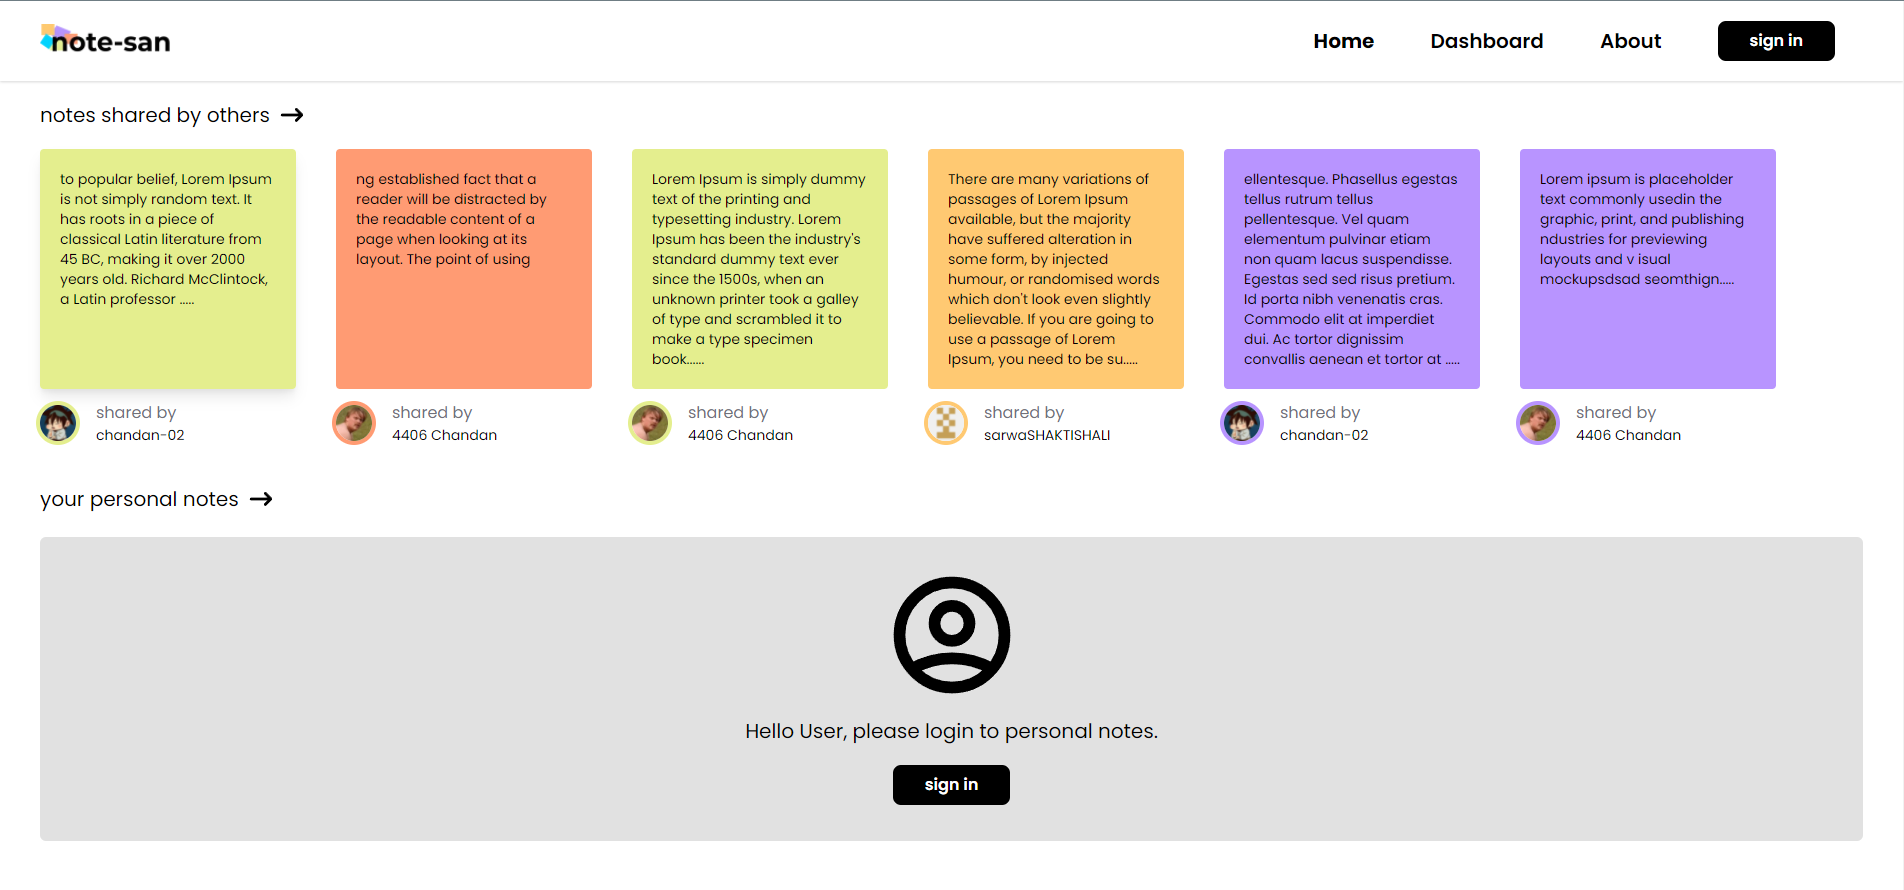
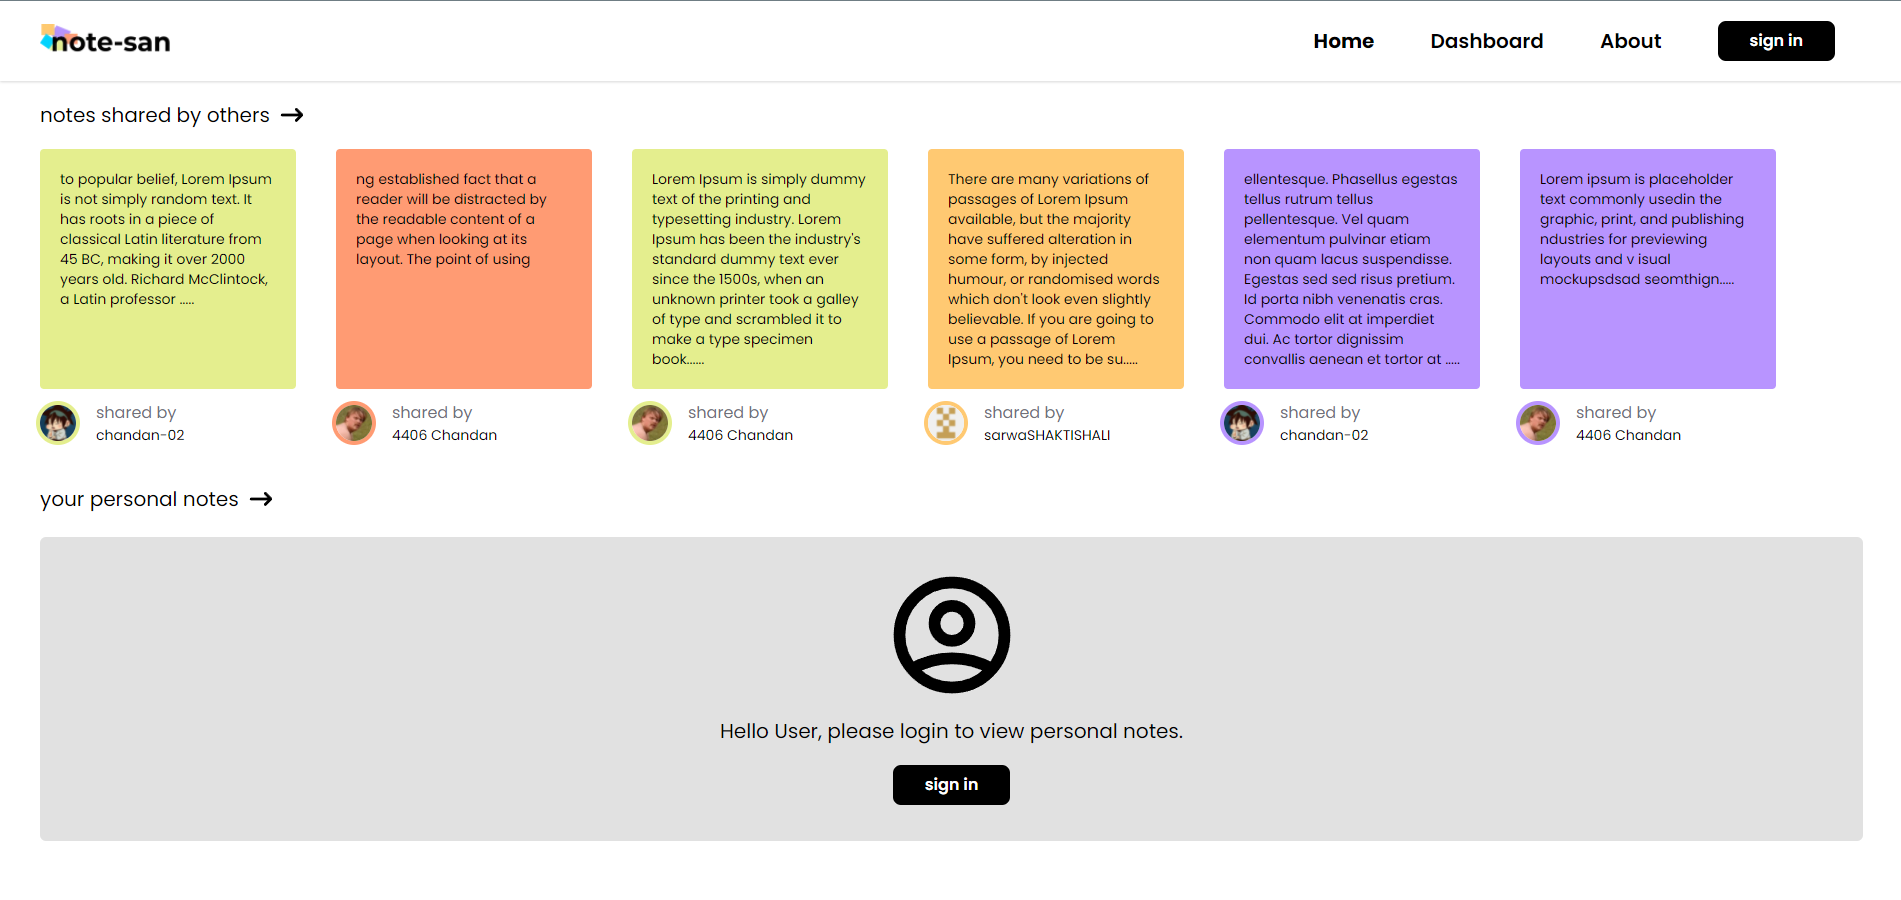
purgecss classnames fix

diff --git a/components/publicNotes.tsx b/components/publicNotes.tsx
@@ -1,11 +1,19 @@
 import { useRouter } from 'next/router';
-import { FC, useEffect, useState } from 'react';
+import { FC } from 'react';
 // import { UserCircleIcon } from '@heroicons/react/solid';
 import { IPublicNotes } from '../interface/notes';
 
+/**
+   * PurgeCSS:
+   * bg-m_purple
+   * bg-m_light_orange
+   * bg-m_dark_orange
+   * bg-m_lime
+   * bg-m_blue
+**/
 const PublicNotes: FC<IPublicNotes> = ({ note }) => {
     const router = useRouter();
-    const [color,setColor] = useState<string>('');
+
     const handleView = () => {
         if (note.id && note.shared_by) {
             router.push({
@@ -17,24 +25,22 @@ const PublicNotes: FC<IPublicNotes> = ({ note }) => {
             })
         }
     }
-    useEffect(() => {
-      setColor('bg-'+note.color);
-    },[])
+
     return (
-        <div className="my-4 md:m-5 w-full md:w-64 text-sm " onClick={()=>handleView()}>
-            <div className={`${color} p-5 rounded filter hover:shadow-lg h-60 transition-all cursor-pointer flex flex-col justify-between`}>
+        <div className="my-4 md:m-5 w-full md:w-64 text-sm " onClick={() => handleView()}>
+            <div className={`bg-${note.color} p-5 rounded filter hover:shadow-lg h-60 transition-all cursor-pointer flex flex-col justify-between`}>
                 <h1 className="font-poppins">{note.note.length > 140 ? note.note.substring(0, 270) + '.....' : note.note}</h1>
             </div>
             <div className="flex items-center mt-3 cursor-default">
-               <div>
-                   {/* eslint-disable-next-line @next/next/no-img-element */}
-                   <img src={note.user_img} className={`h-9 w-9 rounded-full ring-4 ring-${note.color}`} alt="user" />
-               </div>
+                <div>
+                    {/* eslint-disable-next-line @next/next/no-img-element */}
+                    <img src={note.user_img} className={`h-9 w-9 rounded-full ring-4 ring-${note.color}`} alt="user" />
+                </div>
 
-               <div className="ml-5">
-                   <h1 className="font-poppins text-gray-500 text-base">shared by</h1>
-                   <h1 className="font-poppins text-black text-sm">{note.shared_by}</h1>
-               </div>
+                <div className="ml-5">
+                    <h1 className="font-poppins text-gray-500 text-base">shared by</h1>
+                    <h1 className="font-poppins text-black text-sm">{note.shared_by}</h1>
+                </div>
             </div>
         </div>
     )

diff --git a/components/dashnotes.tsx b/components/dashnotes.tsx
@@ -1,4 +1,4 @@
-import { FC ,useState,useEffect} from 'react';
+import { FC ,useState} from 'react';
 import { IDashNotes } from '../interface/notes';
 import { PencilAltIcon, TrashIcon } from '@heroicons/react/solid';
 import { useRouter } from 'next/router';
@@ -8,16 +8,20 @@ const axios = require('axios').create({
     baseURL: process.env.API_BASE_URL
 })
 
+/**
+   * PurgeCSS:
+   * bg-m_purple
+   * bg-m_light_orange
+   * bg-m_dark_orange
+   * bg-m_lime
+   * bg-m_blue
+**/
+
 const DashNotes: FC<IDashNotes> = ({ note, db_user }) => {
     const { mutate } = useSWRConfig();
     const router = useRouter();
     const [load, setload] = useState<boolean>(false)
-    const [color,setColor] = useState<string>('');
-
-    useEffect(() => {
-        setColor('bg-'+note.color);
-      },[])
-
+    
     const handleEdit = () => {
         if (note.id && db_user != '' && db_user != 'no_username') {
             router.push({
@@ -52,9 +56,9 @@ const DashNotes: FC<IDashNotes> = ({ note, db_user }) => {
             }
         }
     }
-
+    const styleMain = `bg-${note.color} my-2 md:m-5 w-full md:w-64 p-5 text-sm rounded filter hover:shadow-lg h-60 transition-all cursor-pointer flex flex-col justify-between`
     return (
-        <div className={`${color} my-2 md:m-5 w-full md:w-64 p-5 text-sm rounded filter hover:shadow-lg h-60 transition-all cursor-pointer flex flex-col justify-between`}>
+        <div className={styleMain}>
             <h1 className="font-poppins">{note.note.length > 140 ? note.note.substring(0, 200) + '.....' : note.note}</h1>
             <div className="flex items-center ">
                 <PencilAltIcon onClick={() => handleEdit()} className="h-5 w-5 text-black mr-4 hover:text-blue-700" />

diff --git a/pages/public/[note].tsx b/pages/public/[note].tsx
@@ -8,12 +8,18 @@ import Image from 'next/image';
 const axios = require('axios').create({
     baseURL: process.env.API_BASE_URL
 })
-
+/**
+   * PurgeCSS:
+   * bg-m_purple
+   * bg-m_light_orange
+   * bg-m_dark_orange
+   * bg-m_lime
+   * bg-m_blue
+**/
 const Note: NextPage = () => {
 
     const router = useRouter();
     const [note, setNote] = useState({ note: null, color: null, user_img: '',shared_by: null });
-    const [color,setColor] = useState<string>('bg-'+note.color);
 
     useEffect(() => {
         const { user, note, id } = router.query;
@@ -27,7 +33,6 @@ const Note: NextPage = () => {
                     }
                 })
                 setNote(response.data.note);
-                setColor('bg-'+response.data.note.color)
             } catch (error) {
                 console.log(error)
             }
@@ -57,7 +62,7 @@ const Note: NextPage = () => {
                         </div>
                     </div>
 
-                    <div className={`mt-5 ${color} p-5 rounded-md cursor-default`}>
+                    <div className={`mt-5 bg-${note.color} p-5 rounded-md cursor-default`}>
                         {
                             note.note != null ?
                                 <div>

diff --git a/components/chooseNoteColor.tsx b/components/chooseNoteColor.tsx
@@ -1,16 +1,19 @@
 import { FC } from 'react';
 import {IChooseNoteColorProps } from '../interface/common';
-import { useEffect ,useState} from 'react';
 
-const ChooseColor:FC<IChooseNoteColorProps> = ({eachColor,stateColor,handler}) => {
-    const [color,setColor] = useState<string>('');
+/**
+   * PurgeCSS:
+   * bg-m_purple
+   * bg-m_light_orange
+   * bg-m_dark_orange
+   * bg-m_lime
+   * bg-m_blue
+**/
 
-    useEffect(() => {
-        setColor('bg-'+eachColor);
-      },[])
+const ChooseColor:FC<IChooseNoteColorProps> = ({eachColor,stateColor,handler}) => {    
     return (
         <div key={eachColor}
-            className={`h-5 w-5 ${color} cursor-pointer rounded-full mx-1 md:mx-2 ring-gray-500 ring-offset-2 transition-all ${stateColor == eachColor && 'ring-2'}`}
+            className={`h-5 w-5 bg-${eachColor} cursor-pointer rounded-full mx-1 md:mx-2 ring-gray-500 ring-offset-2 transition-all ${stateColor == eachColor && 'ring-2'}`}
             onClick={() => handler(eachColor)}></div>
     )
 }

diff --git a/pages/index.tsx b/pages/index.tsx
@@ -115,7 +115,7 @@ const Home: NextPage = () => {
               }
             </div>
             :
-            <LoginPls loading={loading} text={loading ? "Please wait, verifying session." : "Hello User, please login to personal notes."} />
+            <LoginPls loading={loading} text={loading ? "Please wait, verifying session." : "Hello User, please login to view personal notes."} />
         }
       </div>
 

diff --git a/pages/dashboard/[addEditNote].tsx b/pages/dashboard/[addEditNote].tsx
@@ -14,6 +14,15 @@ const axios = require('axios').create({
     baseURL: process.env.API_BASE_URL
 })
 
+/**
+   * PurgeCSS:
+   * bg-m_purple
+   * bg-m_light_orange
+   * bg-m_dark_orange
+   * bg-m_lime
+   * bg-m_blue
+**/
+
 interface ILoad {
     normal: boolean;
     noteLoading: boolean;
